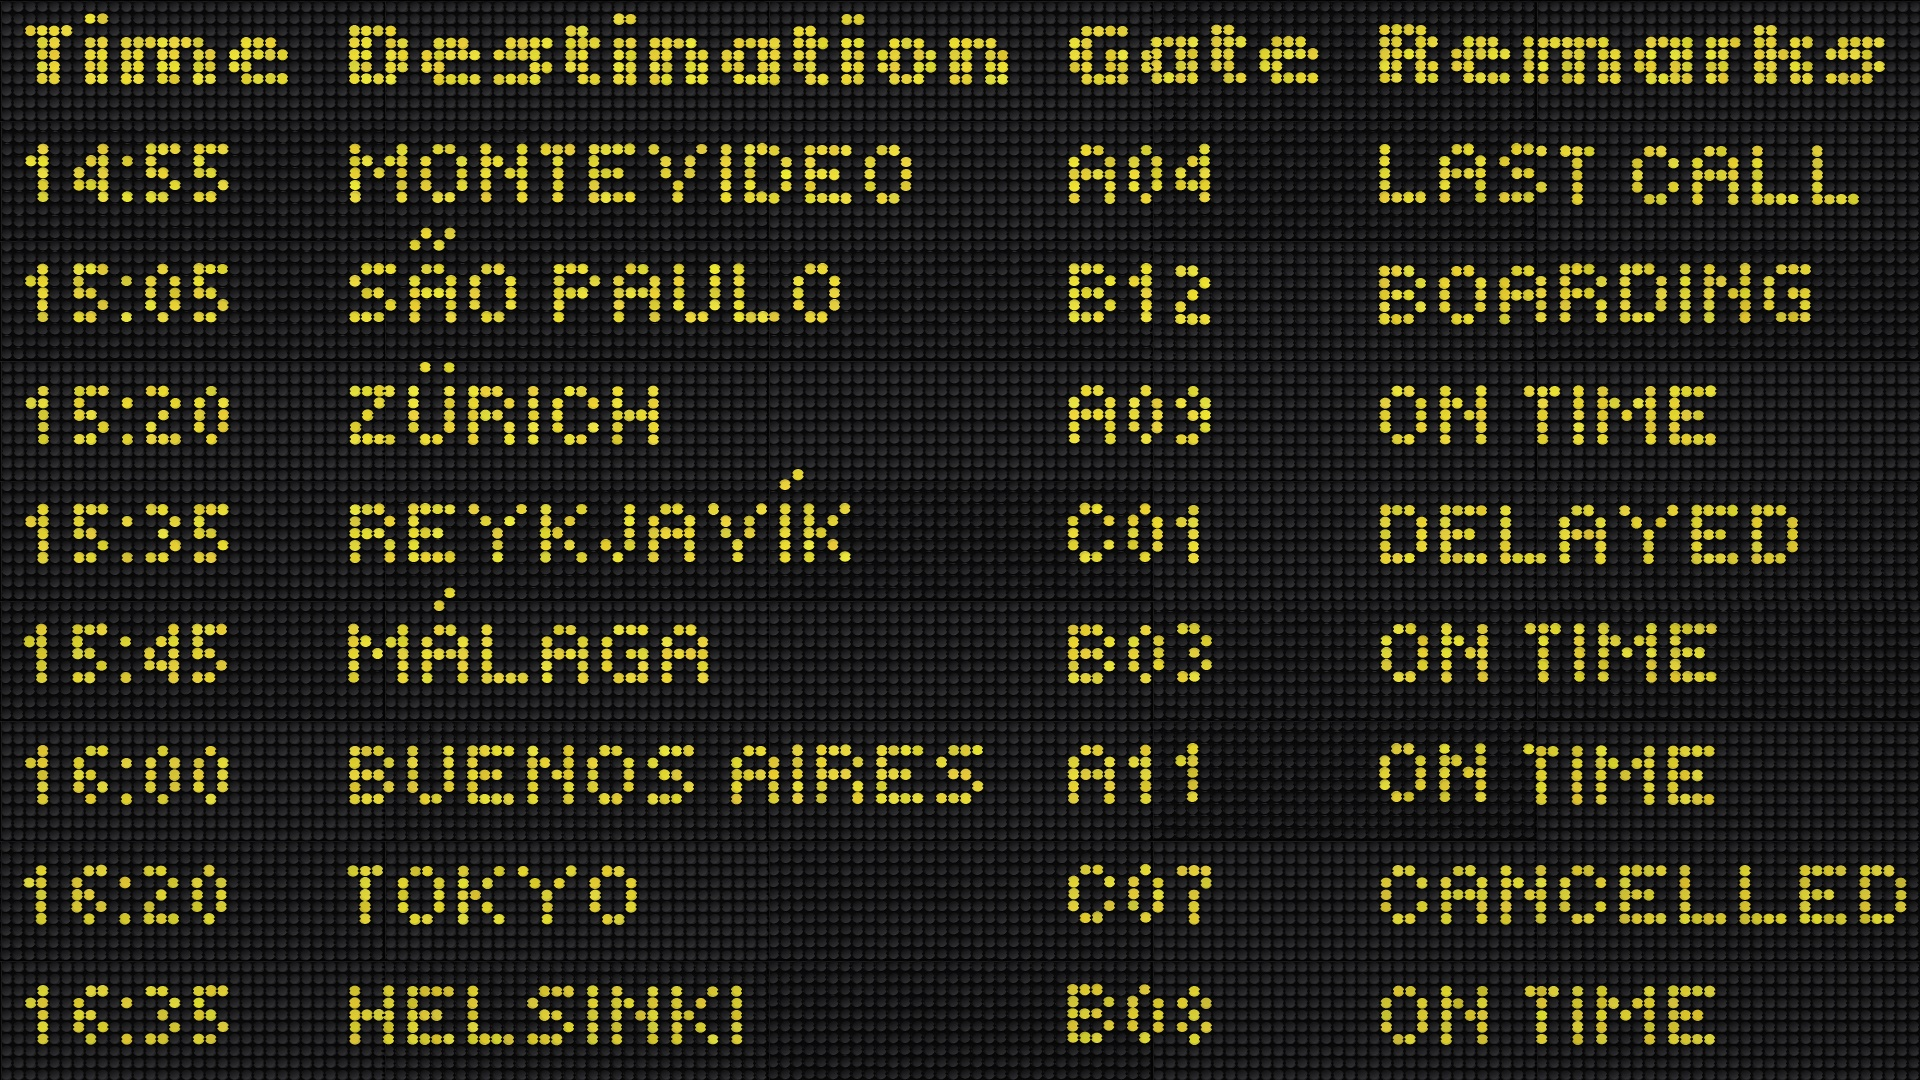
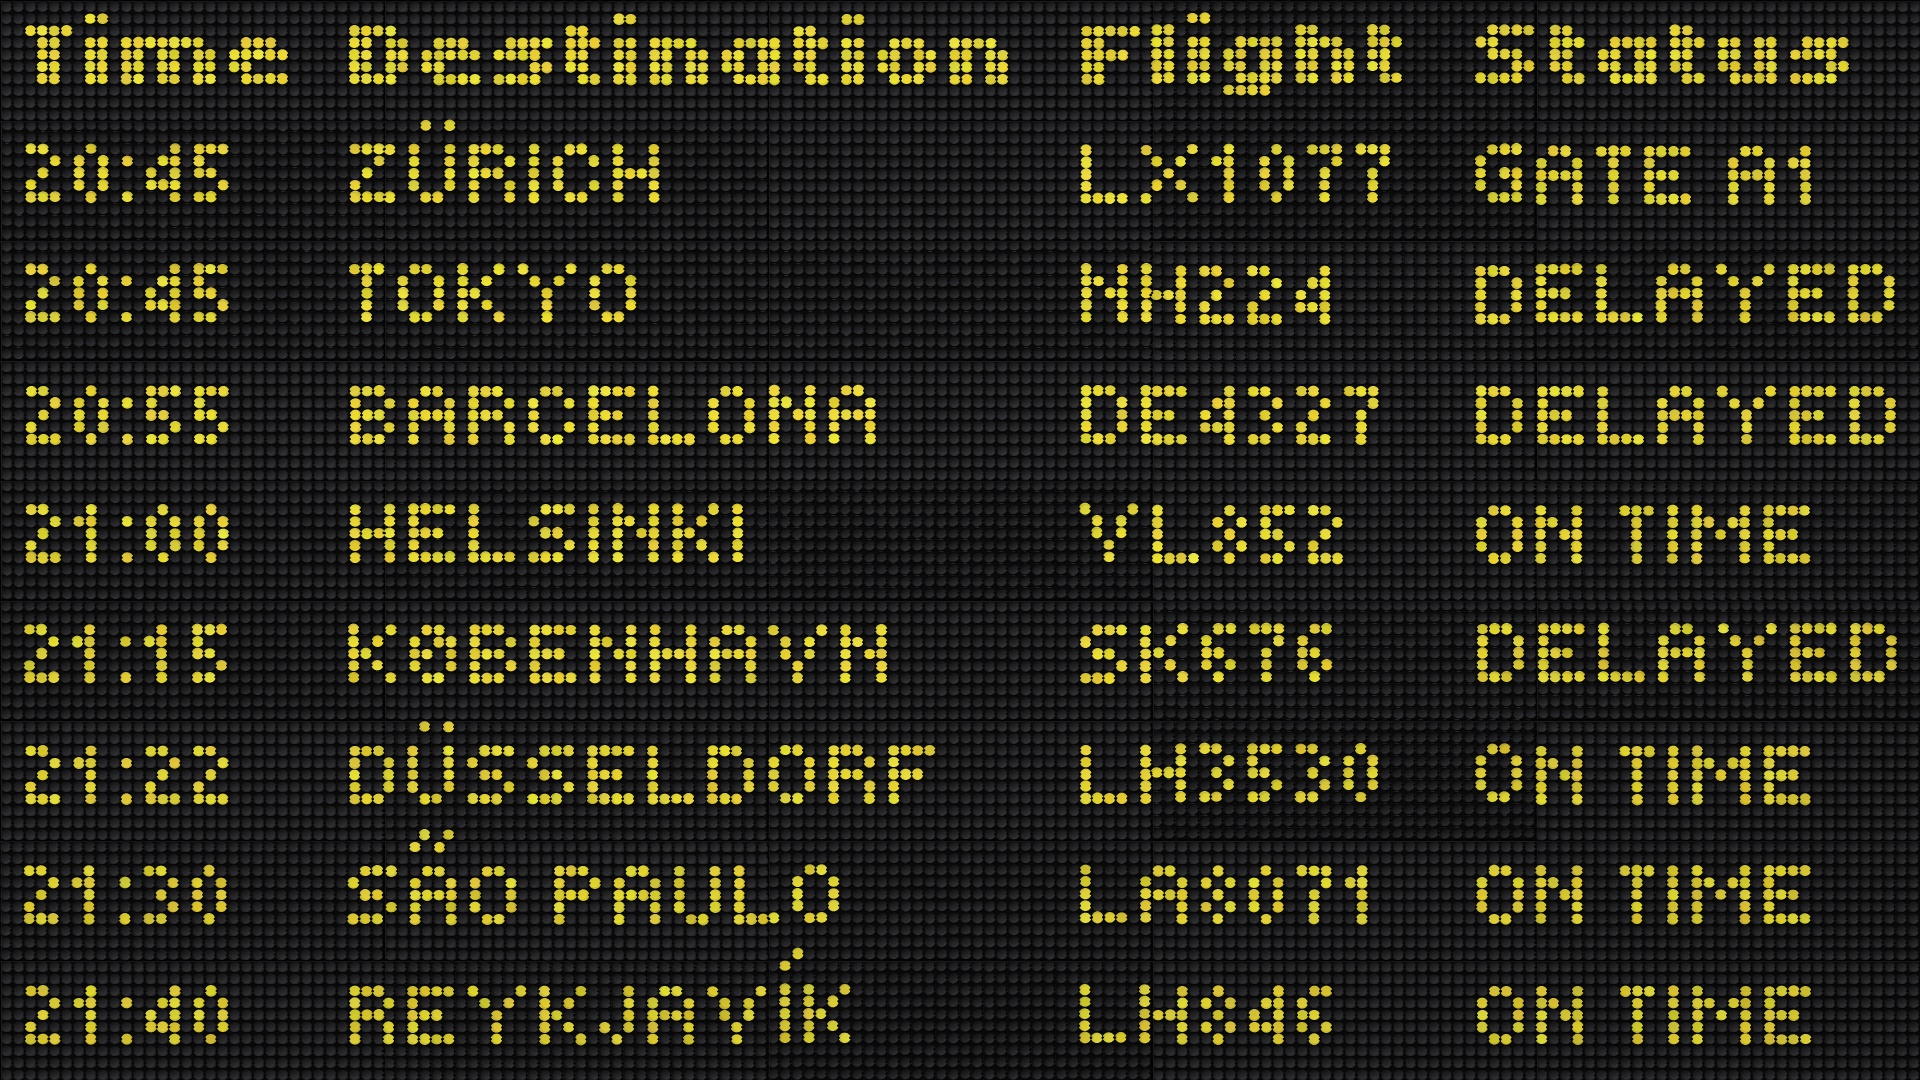
Specimen update

diff --git a/documentation/build-specimen.py b/documentation/build-specimen.py
@@ -614,17 +614,17 @@ FLIP_SHADOW_DROP = (0.06, 0.16)  # how far that shadow falls, in cells, right an
 # The wider of them goes to the left, where every line starts; only
 # CANCELLED, the one remark that outruns its own head, reaches the right.
 FLIP_MARGIN = 2
-DEPARTURE_COLUMNS = [("Time", FLIP_MARGIN), ("Destination", 29), ("Gate", 89),
-                     ("Remarks", 115)]
+DEPARTURE_COLUMNS = [("Time", FLIP_MARGIN), ("Destination", 29), ("Flight", 90),
+                     ("Status", 123)]
 DEPARTURES = [
-    ("14:55", "MONTEVIDEO", "A04", "LAST CALL"),
-    ("15:05", "SÃO PAULO", "B12", "BOARDING"),
-    ("15:20", "ZÜRICH", "A09", "ON TIME"),
-    ("15:35", "REYKJAVÍK", "C01", "DELAYED"),
-    ("15:45", "MÁLAGA", "B03", "ON TIME"),
-    ("16:00", "BUENOS AIRES", "A11", "ON TIME"),
-    ("16:20", "TOKYO", "C07", "CANCELLED"),
-    ("16:35", "HELSINKI", "B08", "ON TIME"),
+    ("20:45", "ZÜRICH", "LX1077", "GATE A1"),
+    ("20:45", "TOKYO", "NH224", "DELAYED"),
+    ("20:55", "BARCELONA", "DE4327", "DELAYED"),
+    ("21:00", "HELSINKI", "VL852", "ON TIME"),
+    ("21:15", "KØBENHAVN", "SK676", "DELAYED"),
+    ("21:22", "DÜSSELDORF", "LH3530", "ON TIME"),
+    ("21:30", "SÃO PAULO", "LA8071", "ON TIME"),
+    ("21:40", "REYKJAVÍK", "LH846", "ON TIME"),
 ]
 # The heads take the first line of the board, the flights the lines after
 # it, all on the module pitch, capitals centered in the line
